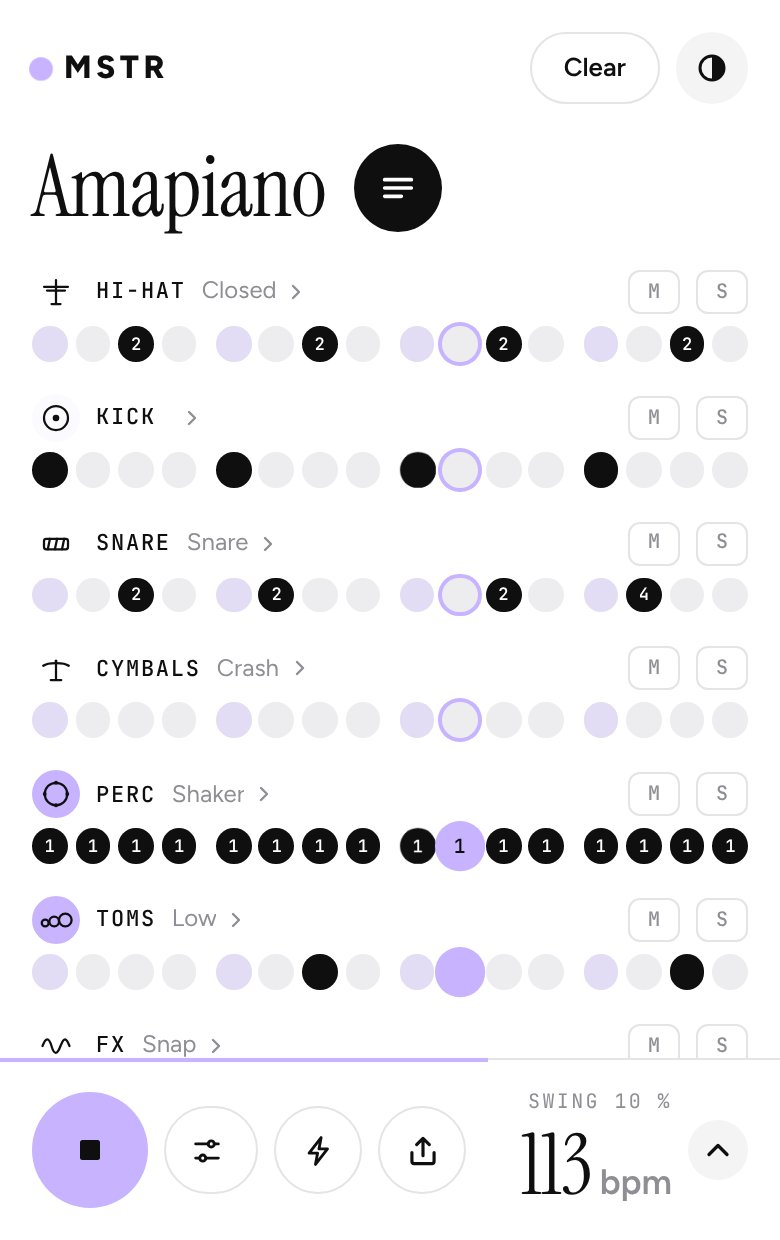
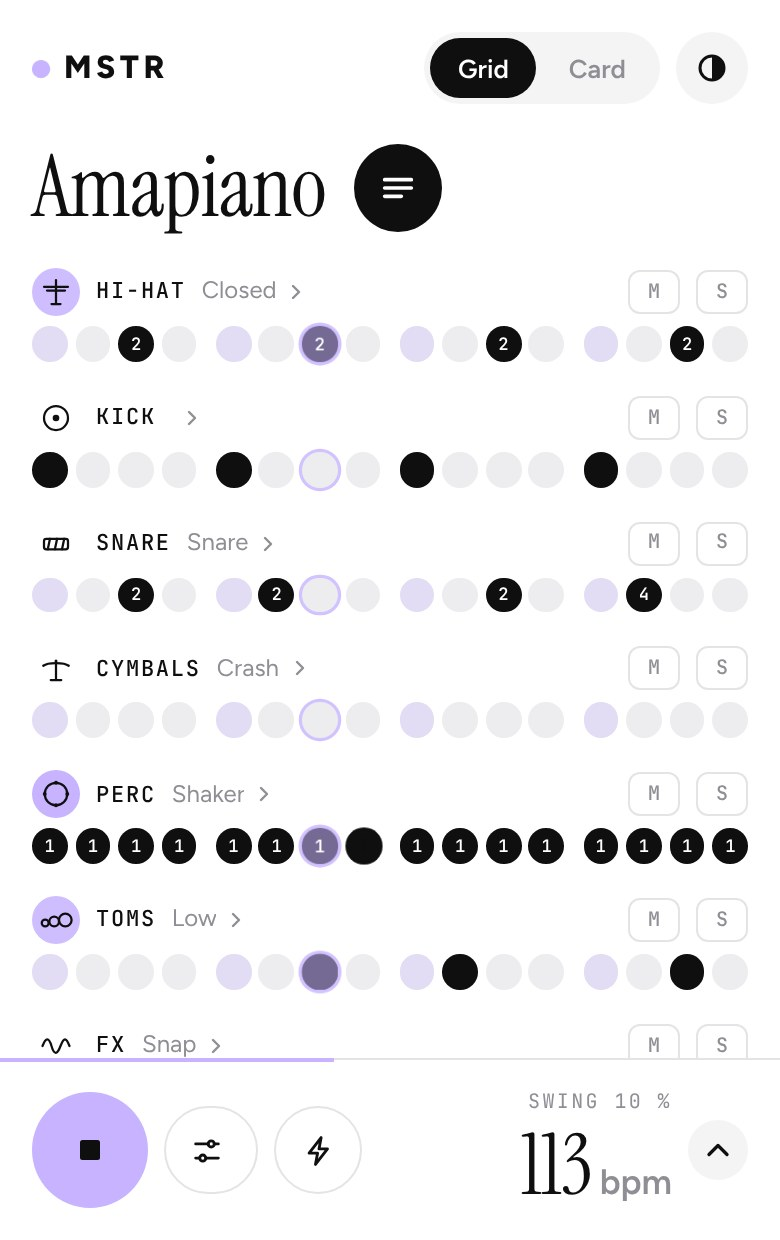
MSTR: Teilen neu geordnet (Grid | Card, Name am Titel, Share in der Karte)
App-Kopie auf den Stand von mstr PR #21 gebracht. Landingpage: Schritte 02 und 04
auf den neuen Ablauf angepasst, Vorschaubilder 1 und 5 neu aufgenommen
(Leiste ohne Teilen-Knopf, Schalter Grid | Card, Kartenansicht mit Save video).

Claude-Session: https://claude.ai/code/session_01WCtGHVGad15G69qQznzFsj

diff --git a/mstr/app/index.html b/mstr/app/index.html
@@ -254,10 +254,18 @@ input[type=range]::-moz-range-thumb{width:20px;height:20px;border-radius:50%;bac
 .vpick .opt.off{color:var(--mute);padding:0 13px}
 
 /* Molekül-Ansicht: ersetzt Raster und Taktzeile, füllt die Höhe bis zum Transport */
-.mol{display:block;width:100%;flex:1 1 auto;min-height:320px;border-radius:24px;cursor:pointer;touch-action:manipulation;-webkit-tap-highlight-color:transparent}
+.mol{display:block;width:100%;flex:1 1 auto;min-height:300px;border-radius:24px;cursor:pointer;touch-action:manipulation;-webkit-tap-highlight-color:transparent}
 .mol:focus-visible{outline:2px solid var(--accent);outline-offset:4px}
 .app.molecule .tracks,.app.molecule .beatrow{display:none}
-#view[aria-pressed="true"]{background:var(--accent);color:var(--on-accent)}
+/* Umschalter oben: Raster zum Bauen, Karte zum Zusehen und Teilen */
+.seg{display:flex;background:var(--soft);border-radius:999px;padding:3px;gap:2px}
+.seg button{height:30px;padding:0 14px;border-radius:999px;border:0;background:none;color:var(--mute);font:600 13px var(--f-ui);cursor:pointer}
+.seg button[aria-pressed="true"]{background:var(--ink);color:var(--bg)}
+.cardfoot{display:flex;gap:8px;align-items:center}
+.cardfoot .pill{flex:1;width:auto}
+.cardfoot .ib{width:48px;height:48px}
+.app.molecule .head{display:none}
+#shCardT{margin-top:-8px}
 </style>
 </head>
 <body>
@@ -265,8 +273,7 @@ input[type=range]::-moz-range-thumb{width:20px;height:20px;border-radius:50%;bac
   <header class="top">
     <span class="mark"><i aria-hidden="true"></i>MSTR</span>
     <div class="topr">
-      <button type="button" class="ib" id="view" aria-pressed="false" aria-label="Show as molecule" title="Show as molecule"><svg viewBox="0 0 24 24" aria-hidden="true"><circle cx="12" cy="12" r="2.4" fill="currentColor"/><circle cx="12" cy="12" r="6.5" fill="none" stroke="currentColor" stroke-width="1.6"/><circle cx="12" cy="12" r="10" fill="none" stroke="currentColor" stroke-width="1.6"/><circle cx="18.5" cy="12" r="1.9" fill="currentColor"/><circle cx="7.4" cy="7.4" r="1.9" fill="currentColor"/><circle cx="8.8" cy="17.6" r="1.9" fill="currentColor"/></svg></button>
-      <button type="button" class="pill" id="clr">Clear</button>
+      <div class="seg" id="view" role="group" aria-label="View"><button type="button" id="vGrid" aria-pressed="true">Grid</button><button type="button" id="vCard" aria-pressed="false">Card</button></div>
       <button type="button" class="ib" id="theme" aria-label="Theme"><svg viewBox="0 0 24 24" aria-hidden="true"><circle cx="12" cy="12" r="8" fill="none" stroke="currentColor" stroke-width="2"/><path d="M12 4a8 8 0 0 1 0 16z" fill="currentColor"/></svg></button>
     </div>
   </header>
@@ -275,13 +282,14 @@ input[type=range]::-moz-range-thumb{width:20px;height:20px;border-radius:50%;bac
     <p class="sub" id="sub"></p>
   </div>
   <main class="tracks" id="tracks" aria-label="Tracks"></main>
-  <canvas class="mol" id="mol" hidden aria-label="Your beat as a molecule, tap to go back to the grid" role="button" tabindex="0"></canvas>
+  <canvas class="mol" id="mol" hidden aria-label="Your beat as a card, tap to name it" role="button" tabindex="0"></canvas>
+  <div class="cardfoot" id="cardfoot" hidden><button type="button" class="pill wide go" id="shCardBtn">Share</button><button type="button" class="ib" id="more" aria-haspopup="dialog" aria-label="Link and WAV loop" title="Link and WAV loop"><svg viewBox="0 0 24 24" aria-hidden="true"><circle cx="5" cy="12" r="2" fill="currentColor"/><circle cx="12" cy="12" r="2" fill="currentColor"/><circle cx="19" cy="12" r="2" fill="currentColor"/></svg></button></div>
+  <p class="shnote" id="shCardT" hidden></p>
   <div class="trk beatrow" aria-hidden="true"><div class="tl"></div><div class="steps"><div class="grp"><span>1</span><span></span><span></span><span></span></div><div class="grp"><span>2</span><span></span><span></span><span></span></div><div class="grp"><span>3</span><span></span><span></span><span></span></div><div class="grp"><span>4</span><span></span><span></span><span></span></div></div></div>
   <footer class="transport">
     <button type="button" class="play" id="play" aria-label="Play (Space)"></button>
     <button type="button" class="pill" id="fxBtn" aria-haspopup="dialog" aria-label="Effects"><svg viewBox="0 0 24 24" aria-hidden="true"><path d="M4 7h9M17 7h3M4 17h3M11 17h9" fill="none" stroke="currentColor" stroke-width="2" stroke-linecap="round"/><circle cx="15" cy="7" r="2.2" fill="none" stroke="currentColor" stroke-width="2"/><circle cx="9" cy="17" r="2.2" fill="none" stroke="currentColor" stroke-width="2"/></svg><span class="fxl">Effects</span><span class="fxn" id="fxN"></span></button>
     <button type="button" class="pill" id="drop" aria-label="Drop"><svg viewBox="0 0 24 24" aria-hidden="true"><path d="M13.5 2.5L5 13.5h6l-1.5 8 8.5-11h-6z" fill="none" stroke="currentColor" stroke-width="2" stroke-linejoin="round"/></svg><span class="fxl">Drop</span></button>
-    <button type="button" class="pill" id="share" aria-haspopup="dialog" aria-label="Share or download" title="Share or download"><svg viewBox="0 0 24 24" aria-hidden="true"><path d="M12 15V4M8 8l4-4 4 4M5 13v5.5A1.5 1.5 0 0 0 6.5 20h11a1.5 1.5 0 0 0 1.5-1.5V13" fill="none" stroke="currentColor" stroke-width="2" stroke-linecap="round" stroke-linejoin="round"/></svg></button>
     <button type="button" class="tempo" id="tempoBtn" aria-haspopup="dialog" aria-label="Tempo and swing"><span class="tv"><span class="swt" id="swTxt">Swing 0 %</span><span class="big"><span id="bpm">100</span><small>bpm</small></span></span><svg class="chev" viewBox="0 0 24 24" aria-hidden="true"><path d="M6 15l6-6 6 6" fill="none" stroke="currentColor" stroke-width="2.2" stroke-linecap="round" stroke-linejoin="round"/></svg></button>
   </footer>
 </div>
@@ -804,9 +812,13 @@ var CARD=(function(){
     x.fillStyle=bg;for(var k=1;k<NBAR;k++)x.fillRect(32*sc+(W-64*sc)*k*(240/S.m.bpm)/tot-sc,799*sc,2*sc,6*sc);
     mono(x,'TAP TO PLAY · ASIMPLEMANSLAB.COM/MSTR',32*sc,H-40*sc,GRY,'left',sc);}
 
-  /* Molekül im Sequencer: füllt eine Fläche W×H in den Farben der App; o = {fg, bg, dark}. Läuft der Beat nicht, steht das Bild */
-  function view(x,W,H,S,o){var sc=Math.min(W,H)/560,live=S.live();x.setTransform(1,0,0,1,0,0);x.fillStyle=o.bg;x.fillRect(0,0,W,H);
-    ring(x,S,W/2,H/2,sc,o.fg,o.dark?INK:o.bg,live,0);if(S.m.fx.lofi&&o.dark)vinyl(x,W,H,S,S.m.fx.lofi.a,live,sc);}
+  /* Karte im Sequencer: füllt eine Fläche W×H in den Farben der App; o = {fg, bg, dark, title, by, preset}.
+     Unten stehen Titel und Zeile wie auf der fertigen Karte, oben rechts „by @name“. Läuft der Beat nicht, steht das Bild */
+  function view(x,W,H,S,o){var sc=Math.min(W/540,H/760),live=S.live(),txt=o.title?130*sc:0;x.setTransform(1,0,0,1,0,0);x.fillStyle=o.bg;x.fillRect(0,0,W,H);
+    var rs=Math.min(sc,(H-txt-40*sc)/560);ring(x,S,W/2,(H-txt)/2,rs,o.fg,o.dark?INK:o.bg,live,0);if(S.m.fx.lofi&&o.dark)vinyl(x,W,H,S,S.m.fx.lofi.a,live,sc);
+    if(o.by){x.fillStyle=o.fg;x.font='600 '+(14*sc)+'px Figtree,sans-serif';x.textAlign='right';x.fillText('by '+(o.by.charAt(0)==='@'?o.by:'@'+o.by),W-24*sc,34*sc);x.textAlign='left';}
+    if(o.title){x.fillStyle=o.fg;fit(x,o.title,W-48*sc,56*sc,'"Instrument Serif",ui-serif,Georgia,serif');x.fillText(o.title,24*sc,H-66*sc);
+      mono(x,((o.preset?o.preset+' · ':'')+S.m.bpm+' BPM · SWING '+Math.round(S.m.sw*100)+'% · '+S.m.tot+' HITS').toUpperCase(),24*sc,H-36*sc,GRY,'left',sc);}}
   /* Video aufnehmen: Canvas plus Ton aus dem fertig gerechneten Puffer, in Echtzeit (so lang wie der Clip).
      buf: AudioBuffer des Clips, ac: AudioContext. onTick(sek, gesamt). done(File|null, Grund) */
   function mime(){var L=['video/mp4;codecs="avc1.42E01E,mp4a.40.2"','video/mp4;codecs=avc1,mp4a.40.2','video/mp4;codecs=avc1','video/mp4','video/webm;codecs=vp9,opus','video/webm;codecs=vp8,opus','video/webm'],i;
@@ -825,7 +837,7 @@ var CARD=(function(){
       if(!b.size)return done(null,'empty');done(new File([b],o.file+'.'+ext,{type:b.type}),null);};
     S.reset();story(x,1080,1920,S,o);
     function frame(){if(stopped)return;var ct=ac.currentTime-t0;if(ct<0)ct=0;S.seek(ct);story(x,1080,1920,S,{title:o.title,by:o.by,preset:o.preset,glass:o.glass,live:true});
-      if(o.mirror){var mx=o.mirror.getContext('2d');mx.drawImage(cv,0,0,o.mirror.width,o.mirror.height);}
+      if(o.mirror){var mc=o.mirror,mx=mc.getContext('2d'),ms=Math.min(mc.width/1080,mc.height/1920),mw=1080*ms,mh=1920*ms;mx.setTransform(1,0,0,1,0,0);mx.fillStyle=o.mirrorBg||INK;mx.fillRect(0,0,mc.width,mc.height);mx.drawImage(cv,(mc.width-mw)/2,(mc.height-mh)/2,mw,mh);}
       onTick(ct,tot);if(ct>=tot){stopped=true;rec.stop();return;}raf=requestAnimationFrame(frame);}
     rec.start(250);t0=ac.currentTime+.1;src.start(t0);frame();
     return function(){if(stopped)return;stopped=true;aborted=true;cancelAnimationFrame(raf);try{rec.stop();}catch(e){}};
@@ -1126,6 +1138,7 @@ var CARD=(function(){
   document.addEventListener('keydown',function(e){
     if(e.key==='Escape'&&vp){var vb=vp._b;varClose();vb.focus({preventScroll:true});return;}
     if(e.key==='Escape'&&!sheet.hidden){closeSheet();return;}
+    if(e.key==='Escape'&&cardT){cardStop();return;}
     if(e.code!=='Space'||e.repeat)return;var tg=e.target,tn=tg&&tg.tagName;
     if(tn==='INPUT'||tn==='TEXTAREA'||tn==='SELECT'||!sheet.hidden)return;
     e.preventDefault();setPlay(!playing);
@@ -1153,14 +1166,15 @@ var CARD=(function(){
   function presetSheet(){
     var order=BEATS.map(function(b,i){return i;}).sort(function(a,b){return BEATS[a].bpm-BEATS[b].bpm||a-b;});
     openSheet('<div class="sh-top"><h2 class="ed" id="sheetT">'+BEATS.length+' beats<br><em>by tempo</em></h2>'+X+'</div><div class="plist" role="listbox" aria-label="Beats"></div><a class="lab" href="https://asimplemanslab.com/" aria-label="Made with love by A Simple Man\u2019s Lab"><span>Made with love by</span><i aria-hidden="true"></i></a>',function(el){
-      var list=el.querySelector('.plist');
+      var list=el.querySelector('.plist'),e=document.createElement('button');e.type='button';e.id='clr';e.className='pitem'+(pre<0&&pat.slice(0,7).join('')===empty().slice(0,7).join('')?' sel':'');e.setAttribute('role','option');
+      e.innerHTML='<span class="n">Empty grid</span><span class="v">'+bpm+'<small>BPM</small></span>';e.addEventListener('click',function(){clearAll();closeSheet();});list.appendChild(e);
       order.forEach(function(i){var Bt=BEATS[i],b=document.createElement('button');b.type='button';b.className='pitem'+(i===pre?' sel':'');b.setAttribute('role','option');b.setAttribute('aria-selected',i===pre?'true':'false');
         if(i===pre)b.setAttribute('data-focus','');
         b.innerHTML='<span class="n">'+NM[Bt.n]+'</span><span class="v">'+Bt.bpm+'<small>BPM</small></span>';
         b.addEventListener('click',function(){fromBeat(i);paint();persist();closeSheet();if(!playing)setPlay(true);});list.appendChild(b);});
     },'vorlagen');
   }
-  $('preBtn').addEventListener('click',presetSheet);$('preName').addEventListener('click',presetSheet);
+  $('preBtn').addEventListener('click',presetSheet);$('preName').addEventListener('click',function(){nameSheet();});
 
   function tempoSheet(){
     var taps=[];
@@ -1260,10 +1274,11 @@ var CARD=(function(){
     var t=toast;if(act)t.querySelector('button').addEventListener('click',function(){fn();t.remove();});
     setTimeout(function(){if(t.parentNode)t.remove();},5000);
   }
-  $('clr').addEventListener('click',function(){
+  /* Leeres Raster: erster Eintrag der Beat-Liste */
+  function clearAll(){
     undo={g:pat.slice(),pre:pre,ed:edited,nm:title};pat=empty();pre=-1;edited=false;title='';paint();persist();
     showToast('All tracks cleared','Undo',function(){pat=undo.g;pre=undo.pre;edited=undo.ed;title=undo.nm;paint();persist();});
-  });
+  }
 
   /* ---------- Beat teilen: der ganze Beat steckt im Link (?b=…), es gibt keinen Server.
      Aufbau: 1.<bpm>.<swing %>.<vorlage>.<raster>.<lautstärke>.<mute/solo>.<effekte>
@@ -1377,64 +1392,40 @@ var CARD=(function(){
   function fileName(){return baseName()+'-'+bpm+'bpm.wav';}
   function canSendFile(f){try{return !!(navigator.canShare&&navigator.share&&navigator.canShare({files:[f]}));}catch(e){return false;}}
   function saveFile(f){var u=URL.createObjectURL(f),a=document.createElement('a');a.href=u;a.download=f.name;document.body.appendChild(a);a.click();a.remove();setTimeout(function(){URL.revokeObjectURL(u);},4000);}
-  /* Teilen: halbes Blatt. Erst dem Beat einen Namen geben (bleibt gespeichert und steht oben als Titel), dann den Link schicken */
-  /* Teilen: halbes Blatt. Erst dem Beat einen Namen geben (bleibt gespeichert und steht oben als Titel; der Würfel schlägt
-     einen Titel aus dem Beat vor), dann die Karte als Video schicken, den Link oder den WAV-Loop */
+  /* Teilen in drei Stücken: Name und „By“ im Namens-Blatt (Titel antippen; der Würfel schlägt einen Titel aus dem Beat vor),
+     „Share“ in der Karten-Ansicht macht das Video, „⋯“ daneben hat Link und WAV-Loop */
   var handle=typeof S.by==='string'?S.by.slice(0,24):'';
   /* Karte: die eingeschalteten Effekte wandern mit ins Bild (Stärke 0–1 und Auswahl), GLASS ist die Durchsichtigkeit der Atome */
   var GLASS=0;
   function cardFx(){var o={};FXS.forEach(function(f){var id=f[0];if(FX[id])o[id]={a:FXA[id]/100,o:FXO[id]};});return o;}
   function cardModel(){return CARD.model(pat.slice(0,7),bpm,sw,cardFx());}
-  function shareSheet(){
-    var own=pat[MIC]&&pat[MIC]!==zero(),video=CARD.canVideo(),mob=nativeShare();
-    openSheet('<div class="sh-top"><span class="eyebrow" id="sheetT">Share your beat</span>'+XB+'</div>'+
-      '<label class="namef"><span class="lbl">Name</span><span class="namer"><input id="shName" type="text" maxlength="40" autocomplete="off" enterkeyhint="send" data-focus>'+
+  function setTitle(v){v=v.replace(/[\u0000-\u001f]/g,'').trim().slice(0,40);if(v!==title){title=v;paint();persist();}}
+  function nameSheet(){
+    openSheet('<div class="sh-top"><span class="eyebrow" id="sheetT">Name your beat</span>'+XB+'</div>'+
+      '<label class="namef"><span class="lbl">Name</span><span class="namer"><input id="shName" type="text" maxlength="40" autocomplete="off" enterkeyhint="done" data-focus>'+
       '<button type="button" class="ib" id="shDice" aria-label="Suggest a title" title="Suggest a title"><svg viewBox="0 0 24 24" aria-hidden="true"><path d="M4 12a8 8 0 0 1 14-5.3M20 12a8 8 0 0 1-14 5.3M18 3v4h-4M6 21v-4h4" fill="none" stroke="currentColor" stroke-width="2" stroke-linecap="round" stroke-linejoin="round"/></svg></button></span></label>'+
-      '<div class="cardrow"><canvas id="shCard" width="180" height="320" aria-label="Preview of your card"></canvas>'+
-      '<div class="cardct"><label class="byf"><span class="lbl">By</span><input id="shBy" type="text" maxlength="24" autocomplete="off" placeholder="@you"></label>'+
-      '<button type="button" class="pill wide go" id="shCardBtn">'+(video?(mob?'Send video':'Save video'):(mob?'Send image':'Save image'))+'</button>'+
-      '<p class="shnote" id="shCardT">'+(video?'With sound, 8 bars, '+Math.round(CARD.clipLen(bpm))+' s. For stories, reels and chats.':'As a picture, for stories and chats.')+'</p></div></div>'+
+      '<label class="byf"><span class="lbl">By</span><input id="shBy" type="text" maxlength="24" autocomplete="off" placeholder="@you"></label>'+
+      '<p class="shnote">Both appear on your card. The name also travels with the link.</p>',function(el){
+      var inp=el.querySelector('#shName'),dice=el.querySelector('#shDice'),diceN=0,m=cardModel();
+      inp.value=title;inp.placeholder=pre>=0?NM[BEATS[pre].n]:'Your beat';
+      inp.addEventListener('input',function(){setTitle(inp.value);});
+      inp.addEventListener('keydown',function(e){if(e.key==='Enter'){e.preventDefault();closeSheet();}});
+      dice.addEventListener('click',function(){inp.value=CARD.title(m,diceN++);setTitle(inp.value);});
+      var by=el.querySelector('#shBy');by.value=handle;
+      by.addEventListener('input',function(){handle=by.value.replace(/[\u0000-\u001f\s]/g,'').slice(0,24);S.by=handle;save();});
+      by.addEventListener('keydown',function(e){if(e.key==='Enter'){e.preventDefault();closeSheet();}});
+    },'name',true);
+  }
+  function moreSheet(){
+    var own=pat[MIC]&&pat[MIC]!==zero(),mob=nativeShare();
+    openSheet('<div class="sh-top"><span class="eyebrow" id="sheetT">Link and loop</span>'+XB+'</div>'+
       '<button type="button" class="pill wide" id="shSend">'+(mob?'Send link':'Copy link')+'</button>'+
       '<p class="shnote" id="shSendT">'+(mob?'':'Paste it into a chat or mail. ')+'Opens your beat on asimplemanslab.com/mstr'+(own?'. Your recording stays on this device.':'.')+'</p>'+
       '<button type="button" class="pill wide" id="shWav"><svg viewBox="0 0 24 24" aria-hidden="true"><path d="M12 4v11M8 11l4 4 4-4M5 19h14" fill="none" stroke="currentColor" stroke-width="2" stroke-linecap="round" stroke-linejoin="round"/></svg><span>Download WAV</span></button>'+
       '<p class="shnote" id="shWavT">'+BARS+' bars that loop seamlessly, for sampling'+(own?', with your recording':'')+'</p>',function(el){
-      var inp=el.querySelector('#shName'),dice=el.querySelector('#shDice'),diceN=0,m=cardModel(),scene=new CARD.Scene(m);
-      inp.value=title;inp.placeholder=pre>=0?NM[BEATS[pre].n]:'Your beat';
-      function setName(){var v=inp.value.replace(/[\u0000-\u001f]/g,'').trim().slice(0,40);if(v!==title){title=v;paint();persist();}}
-      inp.addEventListener('input',setName);
-      inp.addEventListener('keydown',function(e){if(e.key==='Enter'){e.preventDefault();sb.click();}});
-      dice.addEventListener('click',function(){inp.value=CARD.title(m,diceN++);setName();});
-      var by=el.querySelector('#shBy');by.value=handle;
-      by.addEventListener('input',function(){handle=by.value.replace(/[\u0000-\u001f\s]/g,'').slice(0,24);S.by=handle;save();});
-      /* Vorschau: die Karte ruhig animiert, solange das Blatt offen ist */
-      var cv=el.querySelector('#shCard'),cx=cv.getContext('2d'),cardT=null,cRaf=0,busyC=false,cfile=null,ckey='';
-      function opts(){return {title:title||inp.placeholder,by:handle,preset:pre>=0?NM[BEATS[pre].n]:'',glass:GLASS,file:baseName()+'-'+bpm+'bpm'};}
-      function pv(){if(sheet.hidden||!cv.isConnected){cancelAnimationFrame(cRaf);return;}if(!busyC)CARD.story(cx,cv.width,cv.height,scene,opts());cRaf=requestAnimationFrame(pv);}
-      pv();
-      var cb=el.querySelector('#shCardBtn'),ct=el.querySelector('#shCardT'),cbLabel=cb.textContent;
-      function giveCard(f){
-        if(navigator.share&&matchMedia('(pointer: coarse)').matches&&canSendFile(f)){
-          navigator.share({files:[f],title:(title||inp.placeholder)+' · MSTR'}).catch(function(e){if(e&&e.name==='NotAllowedError'){cb.textContent='Save '+f.name;}});return;}
-        saveFile(f);ct.textContent='Saved '+f.name;
-      }
-      cb.addEventListener('click',function(){
-        setName();if(busyC)return;var o=opts(),key=shareCode()+'|'+o.title+'|'+o.by;
-        if(cfile&&ckey===key)return giveCard(cfile);
-        if(!video){CARD.image(scene,o,function(f){if(!f){ct.textContent='That did not work in this browser.';return;}cfile=f;ckey=key;giveCard(f);});return;}
-        busyC=true;setPlay(false);cb.disabled=true;ct.textContent='Rendering sound …';
-        renderClip(function(buf){
-          if(!buf){busyC=false;cb.disabled=false;ct.textContent='That did not work in this browser.';return;}
-          o.mirror=cv;
-          cardT=CARD.record(ac,buf,scene,o,function(t,tot){ct.textContent='Recording '+Math.ceil(tot-t)+' s … stay on this screen';},function(f,why){
-            busyC=false;cb.disabled=false;cardT=null;scene.reset();
-            if(why==='abort')return;
-            if(!f){ct.textContent='Recording did not work here. Saving a picture instead.';CARD.image(scene,o,function(f2){if(f2){cfile=f2;ckey=key;giveCard(f2);}});return;}
-            cfile=f;ckey=key;ct.textContent=f.name+', '+Math.round(CARD.clipLen(bpm))+' s';cb.textContent=cbLabel;giveCard(f);});
-        });
-      });
       var sb=el.querySelector('#shSend'),sbT=0;
-      sb.addEventListener('click',function(){setName();shareBeat(function(){
-        sb.textContent='\u2713 Link copied';clearTimeout(sbT);sbT=setTimeout(function(){sb.textContent='Copy link';},2500);});});
+      sb.addEventListener('click',function(){shareBeat(function(){
+        sb.textContent='✓ Link copied';clearTimeout(sbT);sbT=setTimeout(function(){sb.textContent='Copy link';},2500);});});
       /* Download: am Handy übers Teilen-Menü (dort „In Dateien sichern“), sonst direkt. Lässt der Browser das Teilen
          nach dem Rechnen nicht mehr zu, braucht es einen zweiten Tipp */
       var wb=el.querySelector('#shWav'),wt=el.querySelector('#shWavT'),file=null,busy=false;
@@ -1444,18 +1435,45 @@ var CARD=(function(){
         saveFile(f);wt.textContent='Saved '+f.name;
       }
       wb.addEventListener('click',function(){
-        setName();if(busy)return;
+        if(busy)return;
         if(file&&file.name===fileName())return give(file);
         busy=true;wt.textContent='Rendering …';
         renderLoop(function(blob){busy=false;
           if(!blob){wt.textContent='That did not work in this browser.';return;}
           file=new File([blob],fileName(),{type:'audio/wav'});wt.textContent=file.name+', '+(Math.round(BARS*N*st()*10)/10)+' s';give(file);});
       });
-      /* Blatt zu: Aufnahme abbrechen */
-      sheet.__stop=function(){if(cardT)cardT();cancelAnimationFrame(cRaf);};
-    },'teilen',true);
+    },'mehr',true);
   }
-  $('share').addEventListener('click',shareSheet);
+  $('more').addEventListener('click',moreSheet);
+  /* „Share“ in der Karten-Ansicht: Ton offline rechnen, Video in Echtzeit aufnehmen (die Karten-Ansicht zeigt derweil die Aufnahme),
+     dann teilen (Handy) oder sichern (Rechner). Ohne Video gibt es ein Bild. Dieselbe Datei wird beim zweiten Tipp sofort gegeben */
+  var cb=$('shCardBtn'),ct=$('shCardT'),cardT=null,cfile=null,ckey='',busyC=false,cardGen=0,video=CARD.canVideo();
+  function cardOpts(){return {title:title||(pre>=0?NM[BEATS[pre].n]:'Your beat'),by:handle,preset:pre>=0?NM[BEATS[pre].n]:'',glass:GLASS,file:baseName()+'-'+bpm+'bpm'};}
+  function cardLabel(){cb.textContent=video?(nativeShare()?'Share video':'Save video'):(nativeShare()?'Share image':'Save image');}
+  function giveCard(f){
+    if(navigator.share&&matchMedia('(pointer: coarse)').matches&&canSendFile(f)){
+      navigator.share({files:[f],title:cardOpts().title+' · MSTR'}).catch(function(e){if(e&&e.name==='NotAllowedError'){cb.textContent='Save '+f.name;}});return;}
+    saveFile(f);ct.textContent='Saved '+f.name;ct.hidden=false;
+  }
+  /* Abbruch: auch während der Ton noch gerechnet wird (dann verfällt das Ergebnis) */
+  function cardStop(){cardGen++;if(cardT){cardT();cardT=null;}if(busyC){busyC=false;cb.disabled=false;ct.hidden=true;cardLabel();}}
+  cb.addEventListener('click',function(){
+    if(busyC)return;var o=cardOpts(),key=shareCode()+'|'+o.title+'|'+o.by,scene=new CARD.Scene(cardModel());
+    if(cfile&&ckey===key)return giveCard(cfile);
+    if(!video){CARD.image(scene,o,function(f){if(!f){ct.textContent='That did not work in this browser.';ct.hidden=false;return;}cfile=f;ckey=key;giveCard(f);});return;}
+    busyC=true;setPlay(false);cb.disabled=true;ct.hidden=false;ct.textContent='Rendering sound …';var gen=++cardGen;
+    renderClip(function(buf){
+      if(gen!==cardGen)return;
+      if(!buf){busyC=false;cb.disabled=false;ct.textContent='That did not work in this browser.';return;}
+      o.mirror=molC;o.mirrorBg=molDark()?'#0E0E0F':'#FFFFFF';
+      cardT=CARD.record(ac,buf,scene,o,function(t,tot){ct.textContent='Recording '+Math.ceil(tot-t)+' s … stay on this screen';},function(f,why){
+        busyC=false;cb.disabled=false;cardT=null;cardLabel();
+        if(why==='abort'){ct.hidden=true;return;}
+        if(!f){ct.textContent='Recording did not work here. Saving a picture instead.';CARD.image(scene,o,function(f2){if(f2){cfile=f2;ckey=key;giveCard(f2);}});return;}
+        cfile=f;ckey=key;ct.textContent=f.name+', '+Math.round(CARD.clipLen(bpm))+' s';giveCard(f);});
+    });
+  });
+  cardLabel();
   /* Geteilter Link geöffnet: Beat übernehmen, Adresse aufräumen, mit Rückgängig */
   var shared=null;
   (function(){
@@ -1475,7 +1493,7 @@ var CARD=(function(){
   /* ---------- Molekül-Ansicht: das Raster gegen das Ring-Molekül der Karte tauschen, live mit dem Beat.
      Schläge kommen aus head() (Schritt, Takt), Mute, Solo und Drop entscheiden mit; steht der Beat, steht das Bild.
      Ein Tipp aufs Molekül bringt das Raster zurück, bearbeitet wird nur dort ---------- */
-  var molC=$('mol'),molX=molC.getContext('2d'),viewB=$('view'),molS=null,molKey='',molRaf=0,molOn=false,molTick=0,molLast=0;
+  var molC=$('mol'),molX=molC.getContext('2d'),vGrid=$('vGrid'),vCard=$('vCard'),foot=$('cardfoot'),molS=null,molKey='',molRaf=0,molOn=false,molTick=0,molLast=0;
   function molDark(){var t=document.documentElement.getAttribute('data-theme');return t==='dark'||(!t&&!!window.matchMedia&&matchMedia('(prefers-color-scheme: dark)').matches);}
   function molModel(){var k=shareCode();if(k===molKey&&molS)return;molKey=k;var m=cardModel();
     if(molS)molS.m=m;else{molS=new CARD.Scene(m);molS.clip=false;molS.act=function(r){return audible(r)&&!drop;};}}
@@ -1486,7 +1504,7 @@ var CARD=(function(){
   function molDraw(){molRaf=0;if(!molOn)return;molLast=performance.now();
     try{if(!(molTick++%12))molModel();molSize();
       if(playing)molS.time(ac.currentTime-playT0,performance.now());else if(molS.ct>=0)molS.reset();
-      var d=molDark();CARD.view(molX,molC.width,molC.height,molS,{fg:d?'#F3F3F4':'#0F0F10',bg:d?'#0E0E0F':'#FFFFFF',dark:d});
+      var d=molDark(),o=cardOpts();if(!busyC)CARD.view(molX,molC.width,molC.height,molS,{fg:d?'#F3F3F4':'#0F0F10',bg:d?'#0E0E0F':'#FFFFFF',dark:d,title:o.title,by:o.by,preset:o.preset});
     }catch(e){}
     molRaf=requestAnimationFrame(molDraw);}
   function molGo(){if(!molOn)return;if(molRaf)cancelAnimationFrame(molRaf);molRaf=requestAnimationFrame(molDraw);}
@@ -1494,12 +1512,12 @@ var CARD=(function(){
     if(!drop)for(r=0;r<7;r++)if(pat[r].charAt(q)!=='0'&&audible(r))h.push(r);
     molS.fire({s:q,b:b,h:h,st:stu?1:0},performance.now());
     if(stu)setTimeout(function(){if(molOn&&playing)molS.fire({s:q,b:b,h:h,st:1},performance.now());},st()*500);}
-  function molSet(on){molOn=!!on;app.classList.toggle('molecule',molOn);molC.hidden=!molOn;
-    viewB.setAttribute('aria-pressed',molOn?'true':'false');viewB.setAttribute('aria-label',molOn?'Show the grid':'Show as molecule');viewB.title=viewB.getAttribute('aria-label');
+  function molSet(on){molOn=!!on;if(!molOn)cardStop();app.classList.toggle('molecule',molOn);molC.hidden=!molOn;foot.hidden=!molOn;if(!molOn)ct.hidden=true;
+    vGrid.setAttribute('aria-pressed',molOn?'false':'true');vCard.setAttribute('aria-pressed',molOn?'true':'false');
     S.view=molOn?'mol':'';save();if(molOn){molModel();molSize();molGo();}}
-  viewB.addEventListener('click',function(){molSet(!molOn);});
-  molC.addEventListener('click',function(){molSet(false);});
-  molC.addEventListener('keydown',function(e){if(e.key==='Enter'||e.key===' '){e.preventDefault();molSet(false);viewB.focus();}});
+  vGrid.addEventListener('click',function(){molSet(false);});vCard.addEventListener('click',function(){molSet(true);});
+  molC.addEventListener('click',function(){if(!busyC)nameSheet();});
+  molC.addEventListener('keydown',function(e){if(e.key==='Enter'||e.key===' '){e.preventDefault();if(!busyC)nameSheet();}});
   document.addEventListener('visibilitychange',function(){if(!document.hidden)molGo();});window.addEventListener('pageshow',molGo);
   if(S.view==='mol')molSet(true);
 

diff --git a/mstr/index.html b/mstr/index.html
@@ -43,17 +43,17 @@ body{margin:0;min-height:100vh;background:var(--bg);color:var(--ink);font:400 16
   <p class="say">gesprochen „Muster“</p>
   <p class="lead">Beats bauen im Browser. Acht Spuren, sechzehn Schritte, sechs Effekte, dazu ein eigener Klang übers Mikrofon.</p>
   <div class="shots">
-    <figure><img src="vorschau-1.jpg" alt="Das Raster, die Vorlage Amapiano läuft, unten Play, Effects, Drop, Teilen und Tempo" width="390" height="620"><figcaption>Tippen, und der Beat läuft</figcaption></figure>
+    <figure><img src="vorschau-1.jpg" alt="Das Raster, die Vorlage Amapiano läuft, oben der Schalter Grid | Card, unten Play, Effects, Drop und Tempo" width="390" height="620"><figcaption>Tippen, und der Beat läuft</figcaption></figure>
     <figure><img src="vorschau-2.jpg" alt="Liste der Vorlagen nach Tempo, von One Drop bis Amapiano" width="390" height="620" loading="lazy"><figcaption>16 Vorlagen zum Loslegen</figcaption></figure>
     <figure><img src="vorschau-3.jpg" alt="Die Spur Mic mit dem Aufnahmeknopf" width="390" height="620" loading="lazy"><figcaption>Eigenen Klang aufnehmen</figcaption></figure>
     <figure><img src="vorschau-4.jpg" alt="Die Effekte Room und Echo sind an, mit Reglern" width="390" height="620" loading="lazy"><figcaption>Sechs Effekte zum Zuschalten</figcaption></figure>
-    <figure><img src="vorschau-5.jpg" alt="Teilen: der Beat heißt Sunday Groove, daneben der Würfel für einen neuen Namen, die Vorschau der Video-Karte und Save video" width="390" height="620" loading="lazy"><figcaption>Als Video-Karte, Link oder Loop teilen</figcaption></figure>
+    <figure><img src="vorschau-5.jpg" alt="Die Karte: das Molekül dreht sich zum Beat Sunday Groove von @mark, darunter Save video und das Menü für Link und WAV" width="390" height="620" loading="lazy"><figcaption>Die Karte: zusehen und teilen</figcaption></figure>
   </div>
   <ol class="steps">
     <li><b>01</b>Eine Vorlage wählen oder mit leerem Raster anfangen</li>
-    <li><b>02</b>Schritte antippen, lange drücken für einen anderen Klang, Tempo und Swing einstellen, oder das Raster gegen das Molekül tauschen und dem Beat zusehen</li>
+    <li><b>02</b>Schritte antippen, lange drücken für einen anderen Klang, Tempo und Swing einstellen, oder oben auf Card wechseln und dem Beat als Molekül zusehen</li>
     <li><b>03</b>Effekte zuschalten, Drop zünden, in der Spur Mic selbst etwas aufnehmen</li>
-    <li><b>04</b>Dem Beat einen Namen geben oder würfeln, als Video-Karte für Story und Chat, als Link oder als WAV-Loop teilen</li>
+    <li><b>04</b>Auf den Titel tippen, um den Beat zu benennen oder zu würfeln, und in der Karte das Video für Story und Chat sichern. Link und WAV-Loop stecken hinter den drei Punkten</li>
   </ol>
   <div class="play"><a href="app/">Jetzt loslegen</a><small>Ohne Anmeldung. Läuft auf Handy, Tablet und Computer, am besten mit Kopfhörern.</small></div>
 </section>
